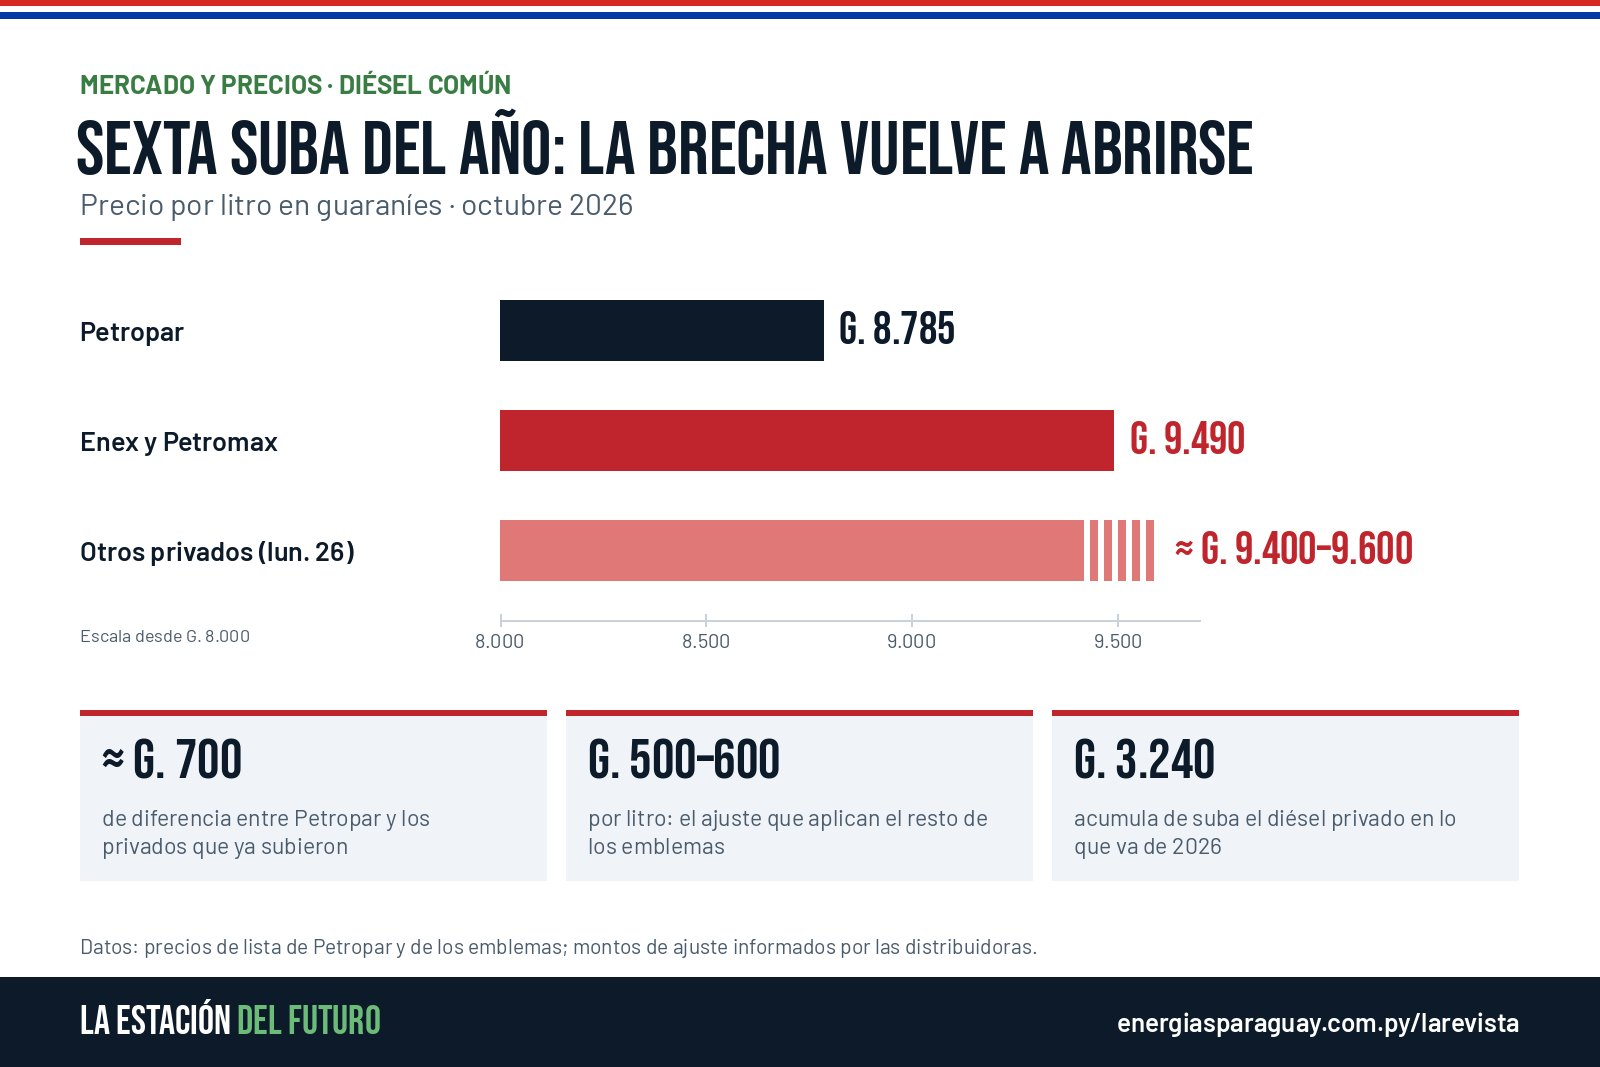
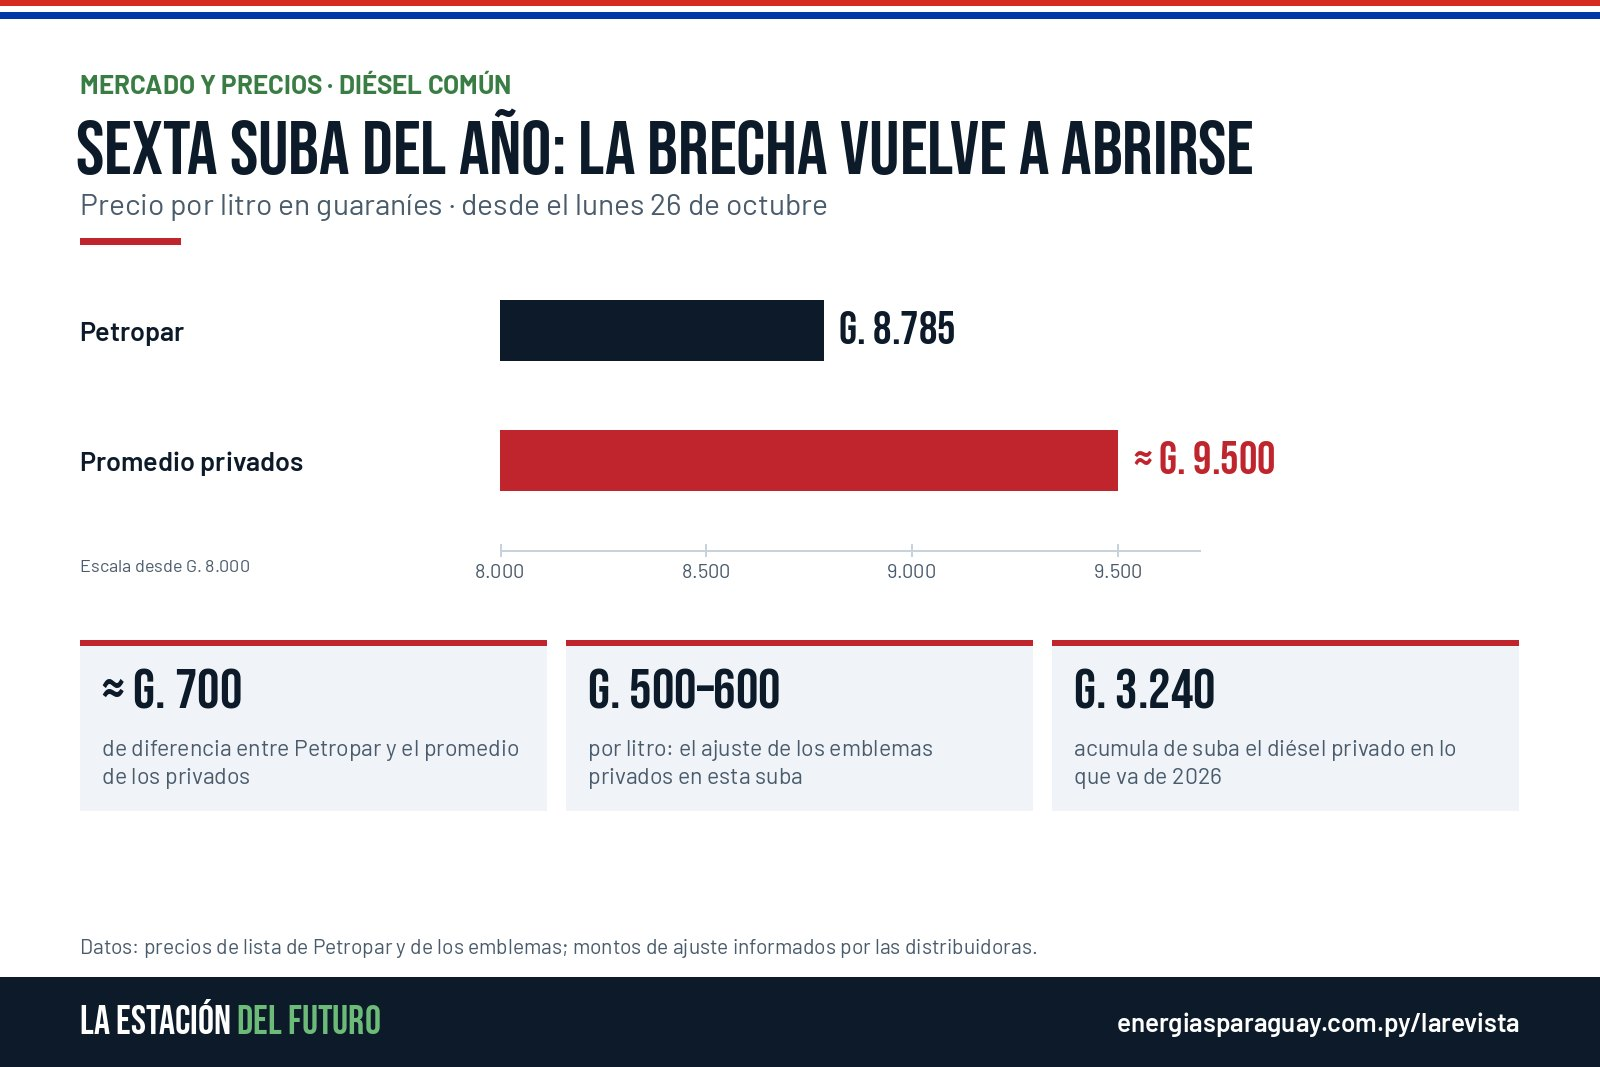
Borrador diésel: gráfico con promedio de privados
Claude-Session: https://claude.ai/code/session_01HHGRFrapr8AXyd2C4Baz1m

diff --git a/notas/2026-10-24-sexta-suba-diesel.html b/notas/2026-10-24-sexta-suba-diesel.html
@@ -1,4 +1,4 @@
-<figure><img src="img/2026-10-24-sexta-suba-diesel-1.jpg" alt="Gráfico: diésel común a G. 8.785 en Petropar, G. 9.490 en Enex y Petromax y entre G. 9.400 y 9.600 en el resto de los privados desde el lunes 26 de octubre"><figcaption>Precio del diésel común por litro tras la sexta suba de 2026.</figcaption></figure>
+<figure><img src="img/2026-10-24-sexta-suba-diesel-1.jpg" alt="Gráfico: diésel común a G. 8.785 en Petropar contra un promedio de unos G. 9.500 en los emblemas privados desde el lunes 26 de octubre"><figcaption>Diésel común: Petropar contra el precio promedio de los privados tras la sexta suba de 2026.</figcaption></figure>
 <p>Lo que a principios de la semana pasada era una advertencia ya tiene fecha. Desde el lunes 26 de octubre, Shell, Copetrol, Petrochaco, Compasa y Energy aplican la sexta suba del diésel en lo que va del año, con ajustes de entre G. 500 y G. 600 por litro. Enex se adelantó el 7 de octubre y Petromax también ya actualizó su lista: ambos venden el diésel común a G. 9.490 y el premium a G. 11.490. Las naftas, por ahora, no se tocan.</p>
 <p>La explicación es la misma de los últimos meses: el gasoil internacional volvió a subir. "Ya no aguantamos más", resumió Adolfo Martin, presidente de la Cámara Paraguaya de Distribuidoras de Combustibles, al confirmar que su emblema sube G. 550 solo en diésel.</p>
 <h2>Petropar, del otro lado</h2>
